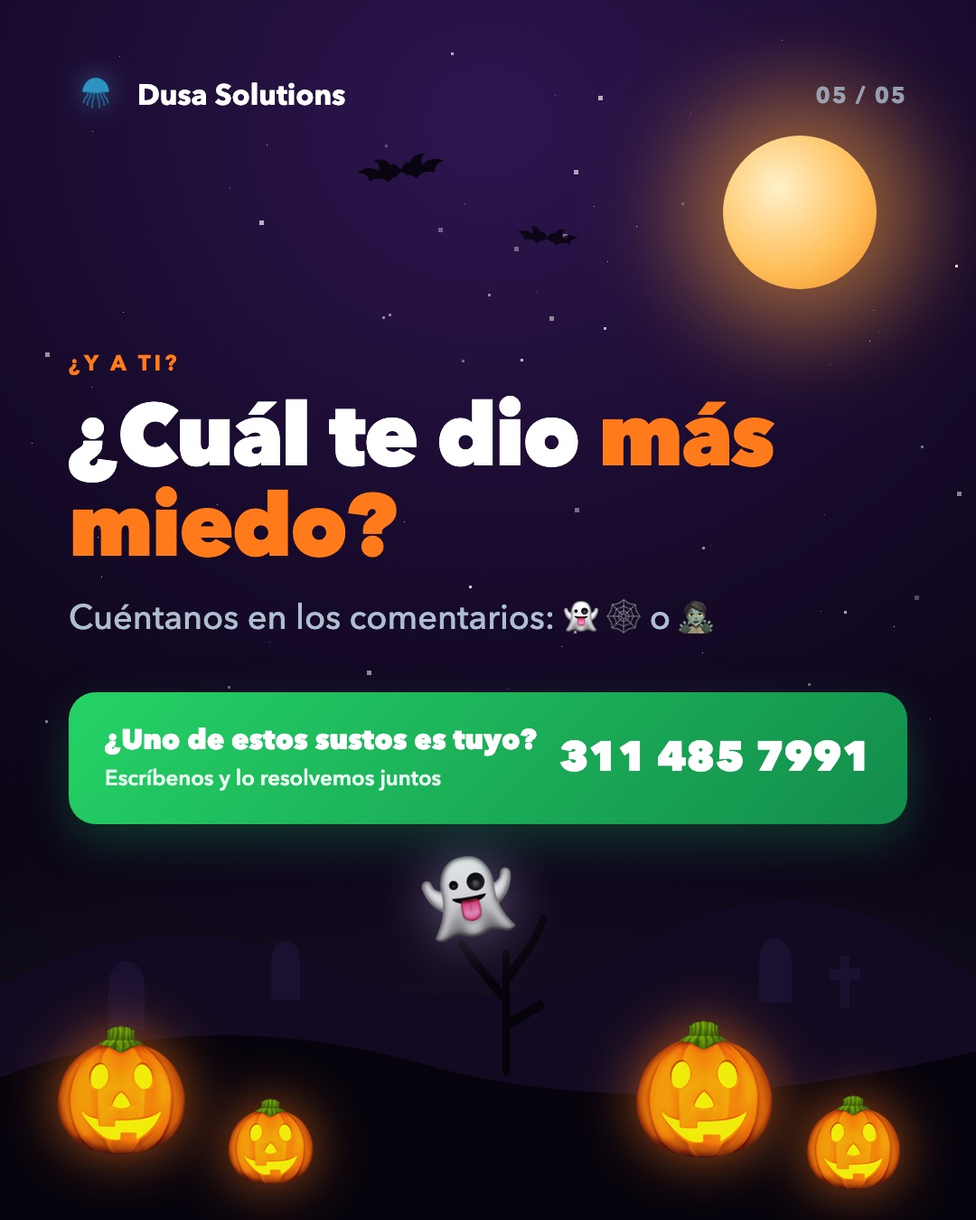
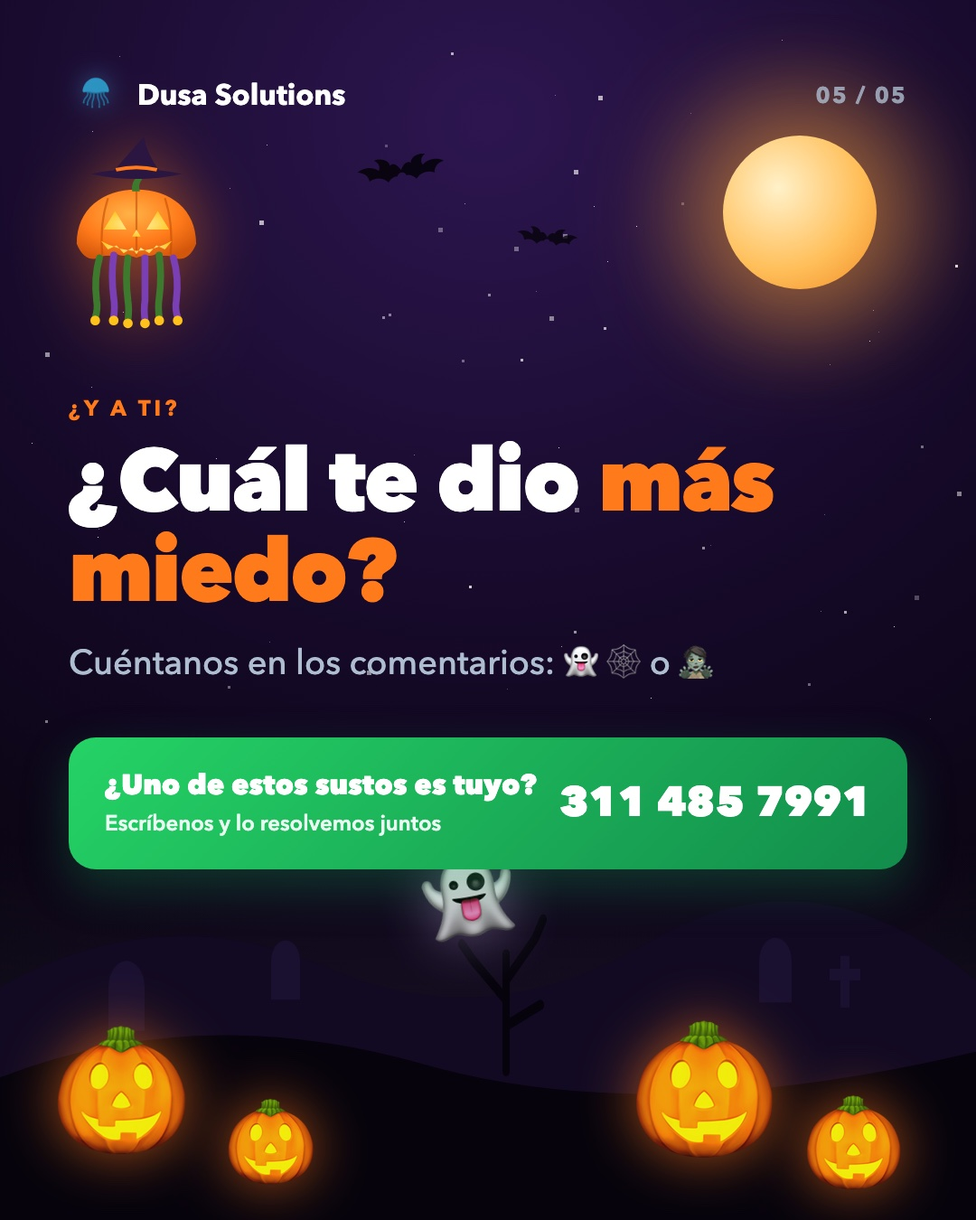
panel: Halloween con la medusa calabaza (solo esta ocasión)

Changed region(s): [[0.0611, 0.0933, 0.9472, 0.7467]]

diff --git a/index.html b/index.html
@@ -250,7 +250,7 @@ footer{margin-top:28px;text-align:center;font-size:12px;color:var(--faint)}
 <div class="toast" id="toast" role="status" aria-live="polite"></div>
 
 <script>
-const APP = {"posts": [{"id": "anuncio", "group": "pausa", "date": null, "title": "Algo cambió en Dusa (anuncio)", "pillar": "Marca", "status": "listo", "caption": "Algo cambió en Dusa. 🔵\n\nNacimos el 13 de abril de 2025 construyendo apps para otros negocios, y nos encanta. Pero siempre tuvimos ideas propias… así que empezamos a construirlas.\n\nYa en el mundo:\n🚻 BathMap — el mapa de baños que le faltaba a México (bathmap.online)\n🧩 Blokku — nuestro juego de puzzle, ya en Google Play\n\nMuy pronto:\n🧾 Fakturo — cotiza, factura y cobra\n💸 TuLana — tu lana, organizada sola\n💪 Coachly — tu coach de entrenamiento con IA\n\nDesde hoy Dusa es un estudio de apps hechas para México. Hacemos las nuestras… y seguimos haciendo la tuya.\n\n¿Tienes una idea? Escríbenos por WhatsApp 👉 311 485 7991\n\nSíguenos para ver cómo las construimos. 🪼\n\n#HechoEnMéxico #Apps #Startups #DesarrolloDeApps #Guadalajara #GDL #BuildInPublic", "note": "Publícalo el día que Blokku aparezca en Google Play. Ese mismo día: bio nueva (PERFIL/BIO.md), portada de FB y archiva los posts viejos de agencia.", "slides": [{"full": "img/anuncio/1.jpg?v=8a9ebbe0", "thumb": "img/anuncio/t1.jpg?v=bb9941f2"}, {"full": "img/anuncio/2.jpg?v=7ba1bb19", "thumb": "img/anuncio/t2.jpg?v=8ef2c3f8"}, {"full": "img/anuncio/3.jpg?v=8657e8e2", "thumb": "img/anuncio/t3.jpg?v=9787a160"}, {"full": "img/anuncio/4.jpg?v=aaf8ee6f", "thumb": "img/anuncio/t4.jpg?v=48d3c8ba"}, {"full": "img/anuncio/5.jpg?v=892c2be6", "thumb": "img/anuncio/t5.jpg?v=96ed7650"}, {"full": "img/anuncio/6.jpg?v=250e0fbd", "thumb": "img/anuncio/t6.jpg?v=fd3e6b2f"}], "short": "Original", "when": "El día que Blokku salga en Google Play"}, {"id": "o1", "group": "oct", "date": "2026-10-02", "title": "BathMap: cómo usarlo en 3 pasos", "pillar": "Producto", "status": "listo", "caption": "¿Urgencia? 🚻 Así encuentras un baño en segundos con BathMap:\n\n1⃣ Abre el mapa y filtra: gratis, $5 o menos, con papel o jabón\n2⃣ Revisa la ficha: precio, cómo llegar y reseñas\n3⃣ ¿Conoces uno que no está? Agrégalo y ayuda a otros\n\nEs gratis y funciona desde el navegador 👉 bathmap.online\n\nGuárdalo para cuando lo necesites 🔖 y compártelo con quien siempre anda buscando baño 😅\n\n#BathMap #HechoEnMéxico #Guadalajara #CDMX #Apps", "note": "", "slides": [{"full": "img/o1/1.jpg?v=019a394d", "thumb": "img/o1/t1.jpg?v=a35bcdc6"}, {"full": "img/o1/2.jpg?v=bb81c3a8", "thumb": "img/o1/t2.jpg?v=d3210e54"}, {"full": "img/o1/3.jpg?v=05d0eb66", "thumb": "img/o1/t3.jpg?v=1a595bf3"}, {"full": "img/o1/4.jpg?v=720c1bb7", "thumb": "img/o1/t4.jpg?v=74b3b049"}]}, {"id": "o2", "group": "oct", "date": "2026-10-05", "title": "Cómo cobrar sin perseguir a nadie", "pillar": "Útil", "status": "listo", "caption": "Freelancer: si alguna vez mandaste \"¿cómo vas con el pago? 🙏\"… esto es para ti.\n\n4 hábitos para cobrar sin perseguir a nadie:\n1⃣ Pide anticipo (30–50%) antes de empezar\n2⃣ Todo por escrito: qué incluye, cuánto y cuándo se paga\n3⃣ Pon fecha de pago y avisa un día antes\n4⃣ Haz fácil pagarte: transferencia, tarjeta o link\n\nGuárdalo 🔖 y compártelo con ese amigo freelancer que siempre anda cobrando.\n\nP.D. Estamos creando Fakturo justo para esto. Muy pronto 🧾\n\n#Freelancer #Emprendedores #PyMEsMexico #Finanzas #Guadalajara", "note": "", "slides": [{"full": "img/o2/1.jpg?v=0dbce985", "thumb": "img/o2/t1.jpg?v=5e15197c"}, {"full": "img/o2/2.jpg?v=99d81dd8", "thumb": "img/o2/t2.jpg?v=eab1806f"}, {"full": "img/o2/3.jpg?v=47a7e26a", "thumb": "img/o2/t3.jpg?v=95d46f70"}, {"full": "img/o2/4.jpg?v=a1115e14", "thumb": "img/o2/t4.jpg?v=ec0dc45c"}, {"full": "img/o2/5.jpg?v=185dce34", "thumb": "img/o2/t5.jpg?v=b39daacc"}]}, {"id": "o3", "group": "oct", "date": "2026-10-07", "title": "Muy pronto: Fakturo", "pillar": "Producto", "status": "listo", "caption": "Muy pronto: Fakturo 🧾\n\nLa app que estamos construyendo para freelancers y pequeños negocios en México:\n✅ Cotiza y factura desde tu cel\n✅ Cobra por WhatsApp en un toque\n✅ PDFs con tu logo y tus colores\n✅ Ve cuánto cobraste, cuánto te deben y en qué gastas\n\n¿Quieres ser de los primeros en usarla? Mándanos la palabra FAKTURO por DM o por WhatsApp (311 485 7991) y te avisamos primero 👀\n\n#Fakturo #Freelancer #PyMEsMexico #Facturación #HechoEnMéxico", "note": "Pide que escriban FAKTURO: anota quién lo pide, es tu lista de espera.", "slides": [{"full": "img/o3/1.jpg?v=d94081e1", "thumb": "img/o3/t1.jpg?v=befe4843"}, {"full": "img/o3/2.jpg?v=aca05b66", "thumb": "img/o3/t2.jpg?v=941ab06f"}, {"full": "img/o3/3.jpg?v=c7ec0811", "thumb": "img/o3/t3.jpg?v=33bf565f"}, {"full": "img/o3/4.jpg?v=9410064a", "thumb": "img/o3/t4.jpg?v=342eff9e"}]}, {"id": "o4", "group": "oct", "date": "2026-10-09", "title": "Qué debe llevar una cotización profesional", "pillar": "Útil", "status": "listo", "caption": "Tu cotización dice mucho de ti antes de que empieces a trabajar 📄\n\nChecklist de una cotización profesional:\n✓ Tus datos y los de tu cliente\n✓ Qué incluye… y qué NO incluye\n✓ Precio con IVA desglosado\n✓ Tiempos de entrega\n✓ Forma y fechas de pago\n✓ Vigencia (ej. 15 días)\n\nCon esto te ahorras malentendidos, cambios infinitos y pagos atrasados.\n\nGuárdala 🔖 para tu próxima cotización.\n\n#Freelancer #Emprendedores #PyMEsMexico #Negocios #Guadalajara", "note": "", "slides": [{"full": "img/o4/1.jpg?v=86f1bd83", "thumb": "img/o4/t1.jpg?v=dff5a564"}]}, {"id": "o5", "group": "oct", "date": "2026-10-12", "title": "Lo que construimos para nosotros, lo construimos para ti", "pillar": "Estudio", "status": "listo", "caption": "Hacemos nuestras propias apps (BathMap, Blokku y las que vienen)… y también hacemos la tuya 🪼\n\nAsí trabajamos:\n1⃣ Platicamos 15 minutos, gratis\n2⃣ Te mandamos una propuesta por escrito: qué, cuánto y cuándo\n3⃣ Cada semana ves avances\n4⃣ El código es tuyo, siempre\n\n¿Tienes una idea dando vueltas? Escríbenos por WhatsApp 👉 311 485 7991\n\n#DesarrolloDeApps #DesarrolloWeb #Emprendedores #Guadalajara #HechoEnMéxico", "note": "", "slides": [{"full": "img/o5/1.jpg?v=4d8263ba", "thumb": "img/o5/t1.jpg?v=0d181015"}]}, {"id": "o6", "group": "oct", "date": "2026-10-14", "title": "Muy pronto: TuLana", "pillar": "Producto", "status": "listo", "caption": "Muy pronto: TuLana 💸 Tu lana, organizada sola.\n\n✅ Detecta cada cargo leyendo las notificaciones de tu banco\n✅ Sin login y sin dar tu clave: todo se queda en tu cel\n✅ ¿Pagaste en efectivo? Escríbelo como hablas: \"350 tacos con el jefe\" y listo\n\nSabes en qué se te va la quincena sin anotar nada.\n\nLlega primero a Android. Síguenos para enterarte del lanzamiento 🔔\n\n#TuLana #FinanzasPersonales #Ahorro #Quincena #HechoEnMéxico", "note": "", "slides": [{"full": "img/o6/1.jpg?v=efe859bd", "thumb": "img/o6/t1.jpg?v=a278c8f7"}, {"full": "img/o6/2.jpg?v=39ededd9", "thumb": "img/o6/t2.jpg?v=39d37c4b"}, {"full": "img/o6/3.jpg?v=c1a8f348", "thumb": "img/o6/t3.jpg?v=4bfb4633"}]}, {"id": "o7", "group": "oct", "date": "2026-10-16", "title": "Separa tu lana personal de la del negocio", "pillar": "Útil", "status": "listo", "caption": "¿Cobras y todo cae en la misma cuenta que usas para el súper? 😬\n\n3 pasos para separar tu lana de la del negocio:\n1⃣ Dos cuentas: una del negocio y otra personal\n2⃣ Págate un \"sueldo\" fijo cada quincena\n3⃣ Aparta un porcentaje de cada cobro para impuestos (tu contador te dice cuánto)\n\nParece poco, pero cambia todo: sabes cuánto ganas de verdad.\n\nGuárdalo 🔖 y empieza este mes.\n\n#Freelancer #FinanzasPersonales #Emprendedores #PyMEsMexico #Quincena", "note": "", "slides": [{"full": "img/o7/1.jpg?v=8f5414f1", "thumb": "img/o7/t1.jpg?v=cb87b66e"}, {"full": "img/o7/2.jpg?v=f77c85a3", "thumb": "img/o7/t2.jpg?v=6def560e"}, {"full": "img/o7/3.jpg?v=e5c42466", "thumb": "img/o7/t3.jpg?v=04aea40a"}, {"full": "img/o7/4.jpg?v=ac885774", "thumb": "img/o7/t4.jpg?v=a558ed71"}]}, {"id": "o8", "group": "oct", "date": "2026-10-19", "title": "BathMap nos cuesta ~$0 al mes", "pillar": "Detrás de cámaras", "status": "listo", "caption": "BathMap es gratis para todos… y a nosotros nos cuesta ~$0 al mes en servidores 🤯\n\n¿Cómo?\n⚡ Cloudflare Workers: corre cerca de cada usuario y su plan gratis nos alcanza\n🗺 OpenStreetMap: mapas y datos abiertos, sin licencias caras\n🐘 Neon (Postgres): base de datos en plan gratis\n\nLa lección: una buena idea no necesita un presupuesto enorme, necesita las decisiones correctas.\n\n¿Tienes una idea y crees que es muy cara de hacer? Platiquemos 👉 311 485 7991\n\n#DetrásDeCámaras #BuildInPublic #Startups #Tecnología #HechoEnMéxico", "note": "", "slides": [{"full": "img/o8/1.jpg?v=ce18896e", "thumb": "img/o8/t1.jpg?v=f93bb3d4"}, {"full": "img/o8/2.jpg?v=c8082569", "thumb": "img/o8/t2.jpg?v=9667f7a9"}, {"full": "img/o8/3.jpg?v=a62a23c1", "thumb": "img/o8/t3.jpg?v=eb95b9bd"}, {"full": "img/o8/4.jpg?v=6158758d", "thumb": "img/o8/t4.jpg?v=50aa61dd"}]}, {"id": "o9", "group": "oct", "date": "2026-10-21", "title": "Muy pronto: Coachly", "pillar": "Producto", "status": "listo", "caption": "Muy pronto: Coachly 💪 Tu coach de entrenamiento con IA.\n\n✅ Rutinas para cada nivel: fuerza, cardio, HIIT, yoga\n✅ Cada ejercicio explicado paso a paso\n✅ Tu progreso: rachas, récords y medidas\n\nPara que entrenes con un plan, no a ciegas.\n\nSíguenos para enterarte del lanzamiento 🔔\n\n#Coachly #Fitness #Entrenamiento #Gym #HechoEnMéxico", "note": "", "slides": [{"full": "img/o9/1.jpg?v=a8edcb52", "thumb": "img/o9/t1.jpg?v=dcbd2355"}, {"full": "img/o9/2.jpg?v=8fbee568", "thumb": "img/o9/t2.jpg?v=bb4155da"}, {"full": "img/o9/3.jpg?v=85665c19", "thumb": "img/o9/t3.jpg?v=d3c58796"}]}, {"id": "o10", "group": "oct", "date": "2026-10-23", "title": "¿Tu negocio necesita app o le basta una web?", "pillar": "Útil", "status": "listo", "caption": "¿Tu negocio necesita una app… o le basta una web? 🤔\n\nTe basta una WEB si:\n✓ Quieres que te encuentren en Google\n✓ Muestras tu catálogo o servicios\n✓ Recibes pedidos o citas por mensaje\n\nNecesitas una APP si:\n✓ Tus clientes regresan seguido\n✓ Necesitas avisarles con notificaciones\n✓ Usas funciones del cel: cámara, ubicación, pagos\n\n¿Sigues con la duda? Te decimos qué te conviene, gratis, en 15 minutos 👉 WhatsApp 311 485 7991\n\n#DesarrolloWeb #DesarrolloDeApps #PyMEsMexico #Emprendedores #Guadalajara", "note": "", "slides": [{"full": "img/o10/1.jpg?v=3a7618c1", "thumb": "img/o10/t1.jpg?v=ce37d012"}, {"full": "img/o10/2.jpg?v=acc26dc5", "thumb": "img/o10/t2.jpg?v=d0c05549"}, {"full": "img/o10/3.jpg?v=5e8995d0", "thumb": "img/o10/t3.jpg?v=799792db"}, {"full": "img/o10/4.jpg?v=a1c63ee0", "thumb": "img/o10/t4.jpg?v=cd7e8762"}]}, {"id": "o11", "group": "oct", "date": "2026-10-31", "title": "Halloween: los 3 sustos de todo freelancer", "pillar": "Marca", "status": "listo", "caption": "Feliz Halloween 🎃 Los 3 sustos de todo freelancer (y cómo espantarlos):\n\n👻 \"Te pago la otra semana\" → fecha límite desde la cotización, anticipo antes de empezar y tus datos de pago en la factura.\n\n🕸 Tu página no abre en el celular → ábrela hoy en tu teléfono, con datos. WhatsApp visible y precios claros.\n\n🧟 La cotización que nadie volvió a ver → en PDF, con vigencia, y seguimiento a los 3 días.\n\n¿Cuál te dio más miedo? Cuéntanos en los comentarios 👇\nY si alguno es tuyo, escríbenos 👉 WhatsApp 311 485 7991\n\n#Halloween #Freelancer #Emprendedores #PyMEsMexico #Guadalajara", "note": "", "slides": [{"full": "img/o11/1.jpg?v=faf9f67c", "thumb": "img/o11/t1.jpg?v=c56adeed"}, {"full": "img/o11/2.jpg?v=9618c42e", "thumb": "img/o11/t2.jpg?v=ba41bcef"}, {"full": "img/o11/3.jpg?v=ebb3b05b", "thumb": "img/o11/t3.jpg?v=e092637a"}, {"full": "img/o11/4.jpg?v=f8f50d9a", "thumb": "img/o11/t4.jpg?v=0a815dc1"}, {"full": "img/o11/5.jpg?v=e5845245", "thumb": "img/o11/t5.jpg?v=a07b0c3f"}]}, {"id": "o12", "group": "oct", "date": "2026-11-02", "title": "Día de Muertos: ideas que no deben morir", "pillar": "Marca", "status": "listo", "caption": "Este Día de Muertos le ponemos ofrenda a las ideas que se fueron sin despedirse 🕯🌼\n\n📱 La app que \"algún día\" ibas a hacer\n🌐 La página que nunca se publicó\n💡 El negocio que se quedó en plática\n\nPero las ideas se pueden revivir:\n✍ Escríbela: qué problema resuelve, para quién y cómo cobras\n🗣 Pregúntale a 10 personas si la necesitan\n🚀 Pruébala en chiquito antes de construir todo\n\nQue la tuya no sea una. Escríbenos y la platicamos 👉 WhatsApp 311 485 7991\n\n#DíaDeMuertos #HechoEnMéxico #Emprendedores #Ideas #Guadalajara", "note": "", "slides": [{"full": "img/o12/1.jpg?v=ff88428e", "thumb": "img/o12/t1.jpg?v=89f6a5bd"}, {"full": "img/o12/2.jpg?v=44dfb4a0", "thumb": "img/o12/t2.jpg?v=da1ee485"}, {"full": "img/o12/3.jpg?v=d4a9d514", "thumb": "img/o12/t3.jpg?v=34849c8c"}, {"full": "img/o12/4.jpg?v=ff0a3a49", "thumb": "img/o12/t4.jpg?v=e755c919"}]}, {"id": "o13", "group": "pausa", "date": null, "title": "Blokku ya está en Google Play", "pillar": "Producto", "status": "listo", "caption": "¡Blokku ya está en Google Play! 🧩\n\nNuestro primer juego: un puzzle de bloques para despejar la mente. Gratis, funciona sin conexión y está hecho aquí en México por el equipo de Dusa.\n\nDescárgalo: busca \"Blokku\" en Google Play o entra a blokku.online 👉\n\nSi te gusta, déjanos tu reseña ⭐ — nos ayuda muchísimo.\n\n#Blokku #JuegosMóviles #Puzzle #HechoEnMéxico #IndieDev #Android", "note": "Súbelo solo cuando Blokku ya esté publicado en Google Play (en el siguiente hueco libre después del anuncio).", "slides": [{"full": "img/o13/1.jpg?v=594f89e4", "thumb": "img/o13/t1.jpg?v=bc082934"}]}, {"id": "o14", "group": "pausa", "date": null, "title": "Así fue lanzar Blokku en Google Play", "pillar": "Detrás de cámaras", "status": "listo", "caption": "Así fue lanzar nuestra primera app en Google Play 🧩\n\n📅 14 días de prueba cerrada (Google lo pide a las cuentas nuevas)\n👥 24 testers en México, Argentina, Bolivia y Ecuador — nos pedían 12\n✅ 3 días para que aprobaran la publicación\n\nLa lección: programar es la mitad. La otra mitad es probar, pulir y cumplir requisitos.\n\nGracias a los 24 que probaron Blokku 💙 ¿Quieres probar nuestra próxima app antes que nadie? Escríbenos y te apuntamos.\n\n#DetrásDeCámaras #IndieDev #GooglePlay #HechoEnMéxico #BuildInPublic", "note": "Después del 13, cuando Blokku ya esté en Play.", "slides": [{"full": "img/o14/1.jpg?v=300cabd6", "thumb": "img/o14/t1.jpg?v=7c2092ee"}, {"full": "img/o14/2.jpg?v=4dda951b", "thumb": "img/o14/t2.jpg?v=7ce53d66"}, {"full": "img/o14/3.jpg?v=41452d17", "thumb": "img/o14/t3.jpg?v=0e2f7a5c"}, {"full": "img/o14/4.jpg?v=1b8a00c6", "thumb": "img/o14/t4.jpg?v=312cff1c"}, {"full": "img/o14/5.jpg?v=17ece00b", "thumb": "img/o14/t5.jpg?v=46d160f7"}]}], "h1": "Octubre <span>2026</span>", "free": ["2026-10-26", "2026-10-28", "2026-10-30"], "sub": "Lunes, miércoles y viernes a las 7–8 pm", "upd": "Actualizado el 02/10/2026 · estudio de apps hechas para México"};
+const APP = {"posts": [{"id": "anuncio", "group": "pausa", "date": null, "title": "Algo cambió en Dusa (anuncio)", "pillar": "Marca", "status": "listo", "caption": "Algo cambió en Dusa. 🔵\n\nNacimos el 13 de abril de 2025 construyendo apps para otros negocios, y nos encanta. Pero siempre tuvimos ideas propias… así que empezamos a construirlas.\n\nYa en el mundo:\n🚻 BathMap — el mapa de baños que le faltaba a México (bathmap.online)\n🧩 Blokku — nuestro juego de puzzle, ya en Google Play\n\nMuy pronto:\n🧾 Fakturo — cotiza, factura y cobra\n💸 TuLana — tu lana, organizada sola\n💪 Coachly — tu coach de entrenamiento con IA\n\nDesde hoy Dusa es un estudio de apps hechas para México. Hacemos las nuestras… y seguimos haciendo la tuya.\n\n¿Tienes una idea? Escríbenos por WhatsApp 👉 311 485 7991\n\nSíguenos para ver cómo las construimos. 🪼\n\n#HechoEnMéxico #Apps #Startups #DesarrolloDeApps #Guadalajara #GDL #BuildInPublic", "note": "Publícalo el día que Blokku aparezca en Google Play. Ese mismo día: bio nueva (PERFIL/BIO.md), portada de FB y archiva los posts viejos de agencia.", "slides": [{"full": "img/anuncio/1.jpg?v=8a9ebbe0", "thumb": "img/anuncio/t1.jpg?v=bb9941f2"}, {"full": "img/anuncio/2.jpg?v=7ba1bb19", "thumb": "img/anuncio/t2.jpg?v=8ef2c3f8"}, {"full": "img/anuncio/3.jpg?v=8657e8e2", "thumb": "img/anuncio/t3.jpg?v=9787a160"}, {"full": "img/anuncio/4.jpg?v=aaf8ee6f", "thumb": "img/anuncio/t4.jpg?v=48d3c8ba"}, {"full": "img/anuncio/5.jpg?v=892c2be6", "thumb": "img/anuncio/t5.jpg?v=96ed7650"}, {"full": "img/anuncio/6.jpg?v=250e0fbd", "thumb": "img/anuncio/t6.jpg?v=fd3e6b2f"}], "short": "Original", "when": "El día que Blokku salga en Google Play"}, {"id": "o1", "group": "oct", "date": "2026-10-02", "title": "BathMap: cómo usarlo en 3 pasos", "pillar": "Producto", "status": "listo", "caption": "¿Urgencia? 🚻 Así encuentras un baño en segundos con BathMap:\n\n1⃣ Abre el mapa y filtra: gratis, $5 o menos, con papel o jabón\n2⃣ Revisa la ficha: precio, cómo llegar y reseñas\n3⃣ ¿Conoces uno que no está? Agrégalo y ayuda a otros\n\nEs gratis y funciona desde el navegador 👉 bathmap.online\n\nGuárdalo para cuando lo necesites 🔖 y compártelo con quien siempre anda buscando baño 😅\n\n#BathMap #HechoEnMéxico #Guadalajara #CDMX #Apps", "note": "", "slides": [{"full": "img/o1/1.jpg?v=019a394d", "thumb": "img/o1/t1.jpg?v=a35bcdc6"}, {"full": "img/o1/2.jpg?v=bb81c3a8", "thumb": "img/o1/t2.jpg?v=d3210e54"}, {"full": "img/o1/3.jpg?v=05d0eb66", "thumb": "img/o1/t3.jpg?v=1a595bf3"}, {"full": "img/o1/4.jpg?v=720c1bb7", "thumb": "img/o1/t4.jpg?v=74b3b049"}]}, {"id": "o2", "group": "oct", "date": "2026-10-05", "title": "Cómo cobrar sin perseguir a nadie", "pillar": "Útil", "status": "listo", "caption": "Freelancer: si alguna vez mandaste \"¿cómo vas con el pago? 🙏\"… esto es para ti.\n\n4 hábitos para cobrar sin perseguir a nadie:\n1⃣ Pide anticipo (30–50%) antes de empezar\n2⃣ Todo por escrito: qué incluye, cuánto y cuándo se paga\n3⃣ Pon fecha de pago y avisa un día antes\n4⃣ Haz fácil pagarte: transferencia, tarjeta o link\n\nGuárdalo 🔖 y compártelo con ese amigo freelancer que siempre anda cobrando.\n\nP.D. Estamos creando Fakturo justo para esto. Muy pronto 🧾\n\n#Freelancer #Emprendedores #PyMEsMexico #Finanzas #Guadalajara", "note": "", "slides": [{"full": "img/o2/1.jpg?v=0dbce985", "thumb": "img/o2/t1.jpg?v=5e15197c"}, {"full": "img/o2/2.jpg?v=99d81dd8", "thumb": "img/o2/t2.jpg?v=eab1806f"}, {"full": "img/o2/3.jpg?v=47a7e26a", "thumb": "img/o2/t3.jpg?v=95d46f70"}, {"full": "img/o2/4.jpg?v=a1115e14", "thumb": "img/o2/t4.jpg?v=ec0dc45c"}, {"full": "img/o2/5.jpg?v=185dce34", "thumb": "img/o2/t5.jpg?v=b39daacc"}]}, {"id": "o3", "group": "oct", "date": "2026-10-07", "title": "Muy pronto: Fakturo", "pillar": "Producto", "status": "listo", "caption": "Muy pronto: Fakturo 🧾\n\nLa app que estamos construyendo para freelancers y pequeños negocios en México:\n✅ Cotiza y factura desde tu cel\n✅ Cobra por WhatsApp en un toque\n✅ PDFs con tu logo y tus colores\n✅ Ve cuánto cobraste, cuánto te deben y en qué gastas\n\n¿Quieres ser de los primeros en usarla? Mándanos la palabra FAKTURO por DM o por WhatsApp (311 485 7991) y te avisamos primero 👀\n\n#Fakturo #Freelancer #PyMEsMexico #Facturación #HechoEnMéxico", "note": "Pide que escriban FAKTURO: anota quién lo pide, es tu lista de espera.", "slides": [{"full": "img/o3/1.jpg?v=d94081e1", "thumb": "img/o3/t1.jpg?v=befe4843"}, {"full": "img/o3/2.jpg?v=aca05b66", "thumb": "img/o3/t2.jpg?v=941ab06f"}, {"full": "img/o3/3.jpg?v=c7ec0811", "thumb": "img/o3/t3.jpg?v=33bf565f"}, {"full": "img/o3/4.jpg?v=9410064a", "thumb": "img/o3/t4.jpg?v=342eff9e"}]}, {"id": "o4", "group": "oct", "date": "2026-10-09", "title": "Qué debe llevar una cotización profesional", "pillar": "Útil", "status": "listo", "caption": "Tu cotización dice mucho de ti antes de que empieces a trabajar 📄\n\nChecklist de una cotización profesional:\n✓ Tus datos y los de tu cliente\n✓ Qué incluye… y qué NO incluye\n✓ Precio con IVA desglosado\n✓ Tiempos de entrega\n✓ Forma y fechas de pago\n✓ Vigencia (ej. 15 días)\n\nCon esto te ahorras malentendidos, cambios infinitos y pagos atrasados.\n\nGuárdala 🔖 para tu próxima cotización.\n\n#Freelancer #Emprendedores #PyMEsMexico #Negocios #Guadalajara", "note": "", "slides": [{"full": "img/o4/1.jpg?v=86f1bd83", "thumb": "img/o4/t1.jpg?v=dff5a564"}]}, {"id": "o5", "group": "oct", "date": "2026-10-12", "title": "Lo que construimos para nosotros, lo construimos para ti", "pillar": "Estudio", "status": "listo", "caption": "Hacemos nuestras propias apps (BathMap, Blokku y las que vienen)… y también hacemos la tuya 🪼\n\nAsí trabajamos:\n1⃣ Platicamos 15 minutos, gratis\n2⃣ Te mandamos una propuesta por escrito: qué, cuánto y cuándo\n3⃣ Cada semana ves avances\n4⃣ El código es tuyo, siempre\n\n¿Tienes una idea dando vueltas? Escríbenos por WhatsApp 👉 311 485 7991\n\n#DesarrolloDeApps #DesarrolloWeb #Emprendedores #Guadalajara #HechoEnMéxico", "note": "", "slides": [{"full": "img/o5/1.jpg?v=4d8263ba", "thumb": "img/o5/t1.jpg?v=0d181015"}]}, {"id": "o6", "group": "oct", "date": "2026-10-14", "title": "Muy pronto: TuLana", "pillar": "Producto", "status": "listo", "caption": "Muy pronto: TuLana 💸 Tu lana, organizada sola.\n\n✅ Detecta cada cargo leyendo las notificaciones de tu banco\n✅ Sin login y sin dar tu clave: todo se queda en tu cel\n✅ ¿Pagaste en efectivo? Escríbelo como hablas: \"350 tacos con el jefe\" y listo\n\nSabes en qué se te va la quincena sin anotar nada.\n\nLlega primero a Android. Síguenos para enterarte del lanzamiento 🔔\n\n#TuLana #FinanzasPersonales #Ahorro #Quincena #HechoEnMéxico", "note": "", "slides": [{"full": "img/o6/1.jpg?v=efe859bd", "thumb": "img/o6/t1.jpg?v=a278c8f7"}, {"full": "img/o6/2.jpg?v=39ededd9", "thumb": "img/o6/t2.jpg?v=39d37c4b"}, {"full": "img/o6/3.jpg?v=c1a8f348", "thumb": "img/o6/t3.jpg?v=4bfb4633"}]}, {"id": "o7", "group": "oct", "date": "2026-10-16", "title": "Separa tu lana personal de la del negocio", "pillar": "Útil", "status": "listo", "caption": "¿Cobras y todo cae en la misma cuenta que usas para el súper? 😬\n\n3 pasos para separar tu lana de la del negocio:\n1⃣ Dos cuentas: una del negocio y otra personal\n2⃣ Págate un \"sueldo\" fijo cada quincena\n3⃣ Aparta un porcentaje de cada cobro para impuestos (tu contador te dice cuánto)\n\nParece poco, pero cambia todo: sabes cuánto ganas de verdad.\n\nGuárdalo 🔖 y empieza este mes.\n\n#Freelancer #FinanzasPersonales #Emprendedores #PyMEsMexico #Quincena", "note": "", "slides": [{"full": "img/o7/1.jpg?v=8f5414f1", "thumb": "img/o7/t1.jpg?v=cb87b66e"}, {"full": "img/o7/2.jpg?v=f77c85a3", "thumb": "img/o7/t2.jpg?v=6def560e"}, {"full": "img/o7/3.jpg?v=e5c42466", "thumb": "img/o7/t3.jpg?v=04aea40a"}, {"full": "img/o7/4.jpg?v=ac885774", "thumb": "img/o7/t4.jpg?v=a558ed71"}]}, {"id": "o8", "group": "oct", "date": "2026-10-19", "title": "BathMap nos cuesta ~$0 al mes", "pillar": "Detrás de cámaras", "status": "listo", "caption": "BathMap es gratis para todos… y a nosotros nos cuesta ~$0 al mes en servidores 🤯\n\n¿Cómo?\n⚡ Cloudflare Workers: corre cerca de cada usuario y su plan gratis nos alcanza\n🗺 OpenStreetMap: mapas y datos abiertos, sin licencias caras\n🐘 Neon (Postgres): base de datos en plan gratis\n\nLa lección: una buena idea no necesita un presupuesto enorme, necesita las decisiones correctas.\n\n¿Tienes una idea y crees que es muy cara de hacer? Platiquemos 👉 311 485 7991\n\n#DetrásDeCámaras #BuildInPublic #Startups #Tecnología #HechoEnMéxico", "note": "", "slides": [{"full": "img/o8/1.jpg?v=ce18896e", "thumb": "img/o8/t1.jpg?v=f93bb3d4"}, {"full": "img/o8/2.jpg?v=c8082569", "thumb": "img/o8/t2.jpg?v=9667f7a9"}, {"full": "img/o8/3.jpg?v=a62a23c1", "thumb": "img/o8/t3.jpg?v=eb95b9bd"}, {"full": "img/o8/4.jpg?v=6158758d", "thumb": "img/o8/t4.jpg?v=50aa61dd"}]}, {"id": "o9", "group": "oct", "date": "2026-10-21", "title": "Muy pronto: Coachly", "pillar": "Producto", "status": "listo", "caption": "Muy pronto: Coachly 💪 Tu coach de entrenamiento con IA.\n\n✅ Rutinas para cada nivel: fuerza, cardio, HIIT, yoga\n✅ Cada ejercicio explicado paso a paso\n✅ Tu progreso: rachas, récords y medidas\n\nPara que entrenes con un plan, no a ciegas.\n\nSíguenos para enterarte del lanzamiento 🔔\n\n#Coachly #Fitness #Entrenamiento #Gym #HechoEnMéxico", "note": "", "slides": [{"full": "img/o9/1.jpg?v=a8edcb52", "thumb": "img/o9/t1.jpg?v=dcbd2355"}, {"full": "img/o9/2.jpg?v=8fbee568", "thumb": "img/o9/t2.jpg?v=bb4155da"}, {"full": "img/o9/3.jpg?v=85665c19", "thumb": "img/o9/t3.jpg?v=d3c58796"}]}, {"id": "o10", "group": "oct", "date": "2026-10-23", "title": "¿Tu negocio necesita app o le basta una web?", "pillar": "Útil", "status": "listo", "caption": "¿Tu negocio necesita una app… o le basta una web? 🤔\n\nTe basta una WEB si:\n✓ Quieres que te encuentren en Google\n✓ Muestras tu catálogo o servicios\n✓ Recibes pedidos o citas por mensaje\n\nNecesitas una APP si:\n✓ Tus clientes regresan seguido\n✓ Necesitas avisarles con notificaciones\n✓ Usas funciones del cel: cámara, ubicación, pagos\n\n¿Sigues con la duda? Te decimos qué te conviene, gratis, en 15 minutos 👉 WhatsApp 311 485 7991\n\n#DesarrolloWeb #DesarrolloDeApps #PyMEsMexico #Emprendedores #Guadalajara", "note": "", "slides": [{"full": "img/o10/1.jpg?v=3a7618c1", "thumb": "img/o10/t1.jpg?v=ce37d012"}, {"full": "img/o10/2.jpg?v=acc26dc5", "thumb": "img/o10/t2.jpg?v=d0c05549"}, {"full": "img/o10/3.jpg?v=5e8995d0", "thumb": "img/o10/t3.jpg?v=799792db"}, {"full": "img/o10/4.jpg?v=a1c63ee0", "thumb": "img/o10/t4.jpg?v=cd7e8762"}]}, {"id": "o11", "group": "oct", "date": "2026-10-31", "title": "Halloween: los 3 sustos de todo freelancer", "pillar": "Marca", "status": "listo", "caption": "Feliz Halloween 🎃 Los 3 sustos de todo freelancer (y cómo espantarlos):\n\n👻 \"Te pago la otra semana\" → fecha límite desde la cotización, anticipo antes de empezar y tus datos de pago en la factura.\n\n🕸 Tu página no abre en el celular → ábrela hoy en tu teléfono, con datos. WhatsApp visible y precios claros.\n\n🧟 La cotización que nadie volvió a ver → en PDF, con vigencia, y seguimiento a los 3 días.\n\n¿Cuál te dio más miedo? Cuéntanos en los comentarios 👇\nY si alguno es tuyo, escríbenos 👉 WhatsApp 311 485 7991\n\n#Halloween #Freelancer #Emprendedores #PyMEsMexico #Guadalajara", "note": "", "slides": [{"full": "img/o11/1.jpg?v=ea7d4b63", "thumb": "img/o11/t1.jpg?v=e88b2617"}, {"full": "img/o11/2.jpg?v=9618c42e", "thumb": "img/o11/t2.jpg?v=ba41bcef"}, {"full": "img/o11/3.jpg?v=ebb3b05b", "thumb": "img/o11/t3.jpg?v=e092637a"}, {"full": "img/o11/4.jpg?v=f8f50d9a", "thumb": "img/o11/t4.jpg?v=0a815dc1"}, {"full": "img/o11/5.jpg?v=f08708d8", "thumb": "img/o11/t5.jpg?v=ce6ce025"}]}, {"id": "o12", "group": "oct", "date": "2026-11-02", "title": "Día de Muertos: ideas que no deben morir", "pillar": "Marca", "status": "listo", "caption": "Este Día de Muertos le ponemos ofrenda a las ideas que se fueron sin despedirse 🕯🌼\n\n📱 La app que \"algún día\" ibas a hacer\n🌐 La página que nunca se publicó\n💡 El negocio que se quedó en plática\n\nPero las ideas se pueden revivir:\n✍ Escríbela: qué problema resuelve, para quién y cómo cobras\n🗣 Pregúntale a 10 personas si la necesitan\n🚀 Pruébala en chiquito antes de construir todo\n\nQue la tuya no sea una. Escríbenos y la platicamos 👉 WhatsApp 311 485 7991\n\n#DíaDeMuertos #HechoEnMéxico #Emprendedores #Ideas #Guadalajara", "note": "", "slides": [{"full": "img/o12/1.jpg?v=ff88428e", "thumb": "img/o12/t1.jpg?v=89f6a5bd"}, {"full": "img/o12/2.jpg?v=44dfb4a0", "thumb": "img/o12/t2.jpg?v=da1ee485"}, {"full": "img/o12/3.jpg?v=d4a9d514", "thumb": "img/o12/t3.jpg?v=34849c8c"}, {"full": "img/o12/4.jpg?v=ff0a3a49", "thumb": "img/o12/t4.jpg?v=e755c919"}]}, {"id": "o13", "group": "pausa", "date": null, "title": "Blokku ya está en Google Play", "pillar": "Producto", "status": "listo", "caption": "¡Blokku ya está en Google Play! 🧩\n\nNuestro primer juego: un puzzle de bloques para despejar la mente. Gratis, funciona sin conexión y está hecho aquí en México por el equipo de Dusa.\n\nDescárgalo: busca \"Blokku\" en Google Play o entra a blokku.online 👉\n\nSi te gusta, déjanos tu reseña ⭐ — nos ayuda muchísimo.\n\n#Blokku #JuegosMóviles #Puzzle #HechoEnMéxico #IndieDev #Android", "note": "Súbelo solo cuando Blokku ya esté publicado en Google Play (en el siguiente hueco libre después del anuncio).", "slides": [{"full": "img/o13/1.jpg?v=594f89e4", "thumb": "img/o13/t1.jpg?v=bc082934"}]}, {"id": "o14", "group": "pausa", "date": null, "title": "Así fue lanzar Blokku en Google Play", "pillar": "Detrás de cámaras", "status": "listo", "caption": "Así fue lanzar nuestra primera app en Google Play 🧩\n\n📅 14 días de prueba cerrada (Google lo pide a las cuentas nuevas)\n👥 24 testers en México, Argentina, Bolivia y Ecuador — nos pedían 12\n✅ 3 días para que aprobaran la publicación\n\nLa lección: programar es la mitad. La otra mitad es probar, pulir y cumplir requisitos.\n\nGracias a los 24 que probaron Blokku 💙 ¿Quieres probar nuestra próxima app antes que nadie? Escríbenos y te apuntamos.\n\n#DetrásDeCámaras #IndieDev #GooglePlay #HechoEnMéxico #BuildInPublic", "note": "Después del 13, cuando Blokku ya esté en Play.", "slides": [{"full": "img/o14/1.jpg?v=300cabd6", "thumb": "img/o14/t1.jpg?v=7c2092ee"}, {"full": "img/o14/2.jpg?v=4dda951b", "thumb": "img/o14/t2.jpg?v=7ce53d66"}, {"full": "img/o14/3.jpg?v=41452d17", "thumb": "img/o14/t3.jpg?v=0e2f7a5c"}, {"full": "img/o14/4.jpg?v=1b8a00c6", "thumb": "img/o14/t4.jpg?v=312cff1c"}, {"full": "img/o14/5.jpg?v=17ece00b", "thumb": "img/o14/t5.jpg?v=46d160f7"}]}], "h1": "Octubre <span>2026</span>", "free": ["2026-10-26", "2026-10-28", "2026-10-30"], "sub": "Lunes, miércoles y viernes a las 7–8 pm", "upd": "Actualizado el 02/10/2026 · estudio de apps hechas para México"};
 (() => {
 const $ = (s) => document.querySelector(s);
 const esc = (s) => String(s).replace(/[&<>"]/g, c => ({ '&': '&amp;', '<': '&lt;', '>': '&gt;', '"': '&quot;' }[c]));
